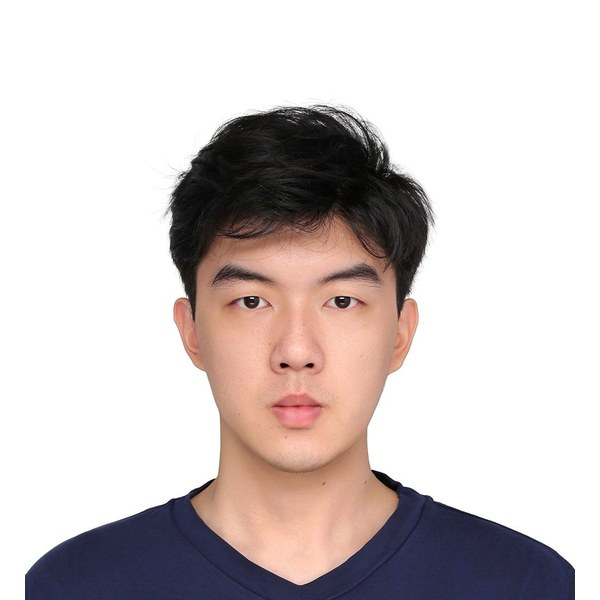
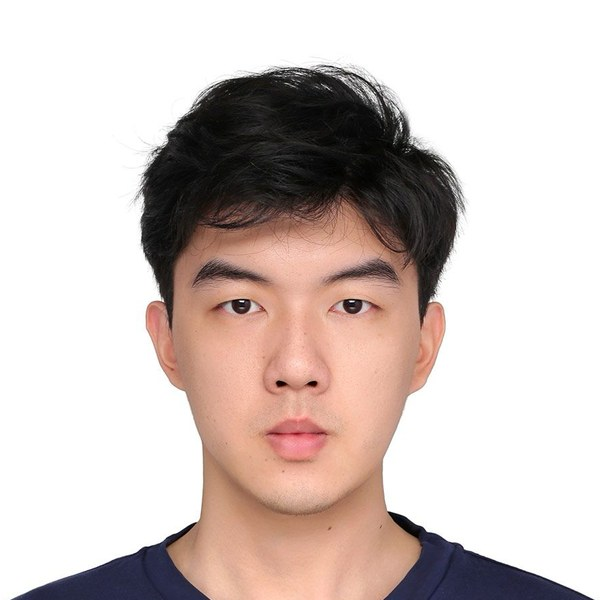
Fix issues found clicking through the site
- Publications: topic and member chips are rebuilt for the current scope.
  In the default group view 7 of 16 topics led to an empty list; switching
  scope with a now-absent topic selected also stranded the reader.
- Authors: members are displayed with their Team-page spelling, so
  'Lionel Briand' and 'Lionel C. Briand' no longer alternate.
- Avatars: hairline ring so white-backdrop portraits keep a visible edge on
  white cards; Liting Lin's photo re-cropped to match the others' head size.

Changed region(s): [[0.0, 0.09, 0.96, 1.0], [0.96, 0.99, 0.99, 1.0], [0.45, 0.27, 0.48, 0.3]]

diff --git a/site/assets/js/main.js b/site/assets/js/main.js
@@ -82,6 +82,10 @@ function collectMembers() {
 
 const isMember = (author) => ROSTER.some((name) => sameName(author, name));
 
+/* Sources spell members differently ("Lionel Briand" / "Lionel C. Briand");
+   always display the spelling used on the Team page. */
+const memberName = (author) => ROSTER.find((name) => sameName(author, name)) || author;
+
 /* ---------- monogram avatars --------------------------------------------- */
 
 const AVATAR_GRADIENTS = [
@@ -478,7 +482,7 @@ function renderTeam() {
 
 function authorsHTML(list) {
   return list
-    .map((a) => (isMember(a) ? `<span class="me">${esc(a)}</span>` : esc(a)))
+    .map((a) => (isMember(a) ? `<span class="me">${esc(memberName(a))}</span>` : esc(a)))
     .join(", ");
 }
 
@@ -525,27 +529,35 @@ function renderPublications() {
       `<button class="chip" data-scope="${v}" aria-pressed="${v === state.scope}">${l}</button>`
     ).join("");
 
-  const topics = ["all", ...new Set(LISTED().flatMap((p) => p.topics || []))];
-  topicBar.innerHTML =
-    `<span class="filter-label">Topic</span>` +
-    topics.map((t) =>
-      `<button class="chip" data-topic="${t}" aria-pressed="${t === state.topic}">${
-        t === "all" ? "All" : esc(TOPIC_LABELS[t] || t)
-      }</button>`
-    ).join("");
+  // Topic and member chips offer only what the current scope contains, so no
+  // chip leads to an empty list. Rebuilt whenever the scope changes; a choice
+  // that no longer exists in the new scope falls back to "all".
+  function renderChips() {
+    const inScope = LISTED().filter((p) => state.scope === "all" || p.group);
 
-  // One chip per member who appears on at least one listed paper.
-  if (memberBar) {
-    const roster = [...PEOPLE.pi, ...PEOPLE.fellows, ...PEOPLE.postdocs, ...PEOPLE.phd];
-    const withWork = roster.filter((p) =>
-      LISTED().some((pub) => pub.authors.some((a) => sameName(a, p.name)))
-    );
-    memberBar.innerHTML =
-      `<span class="filter-label">Member</span>` +
-      `<button class="chip" data-member="all" aria-pressed="true">Everyone</button>` +
-      withWork
-        .map((p) => `<button class="chip" data-member="${esc(p.name)}" aria-pressed="false">${esc(p.name)}</button>`)
-        .join("");
+    const topics = ["all", ...new Set(inScope.flatMap((p) => p.topics || []))];
+    if (!topics.includes(state.topic)) state.topic = "all";
+    topicBar.innerHTML =
+      `<span class="filter-label">Topic</span>` +
+      topics.map((t) =>
+        `<button class="chip" data-topic="${t}" aria-pressed="${t === state.topic}">${
+          t === "all" ? "All" : esc(TOPIC_LABELS[t] || t)
+        }</button>`
+      ).join("");
+
+    if (memberBar) {
+      const roster = [...PEOPLE.pi, ...PEOPLE.fellows, ...PEOPLE.postdocs, ...PEOPLE.phd];
+      const withWork = roster.filter((p) =>
+        inScope.some((pub) => pub.authors.some((a) => sameName(a, p.name)))
+      );
+      if (state.member !== "all" && !withWork.some((p) => p.name === state.member)) state.member = "all";
+      memberBar.innerHTML =
+        `<span class="filter-label">Member</span>` +
+        `<button class="chip" data-member="all" aria-pressed="${state.member === "all"}">Everyone</button>` +
+        withWork
+          .map((p) => `<button class="chip" data-member="${esc(p.name)}" aria-pressed="${p.name === state.member}">${esc(p.name)}</button>`)
+          .join("");
+    }
   }
 
   function apply() {
@@ -581,6 +593,7 @@ function renderPublications() {
     if (chip.dataset.scope) {
       state.scope = chip.dataset.scope;
       $$("[data-scope]").forEach((c) => c.setAttribute("aria-pressed", String(c.dataset.scope === state.scope)));
+      renderChips();
     }
     if (chip.dataset.member) {
       state.member = chip.dataset.member;
@@ -593,6 +606,7 @@ function renderPublications() {
     apply();
   });
 
+  renderChips();
   apply();
 }
 

diff --git a/site/assets/css/style.css b/site/assets/css/style.css
@@ -350,6 +350,16 @@ ul { margin: 0; padding: 0; }
   background: var(--bg-deep); position: relative; flex-shrink: 0;
 }
 .avatar img { width: 100%; height: 100%; object-fit: cover; }
+/* A hairline ring drawn over the photo: portraits shot on a white backdrop
+   otherwise have no visible edge on a white card and read as a floating head. */
+.avatar::after {
+  content: ""; position: absolute; inset: 0; border-radius: inherit;
+  box-shadow: inset 0 0 0 1px rgba(0, 30, 98, .14);
+  pointer-events: none;
+}
+@media (prefers-color-scheme: dark) {
+  .avatar::after { box-shadow: inset 0 0 0 1px rgba(255, 255, 255, .14); }
+}
 .avatar-mono {
   display: flex; align-items: center; justify-content: center;
   font-size: 36px; font-weight: 660; color: #fff; letter-spacing: -.02em;
